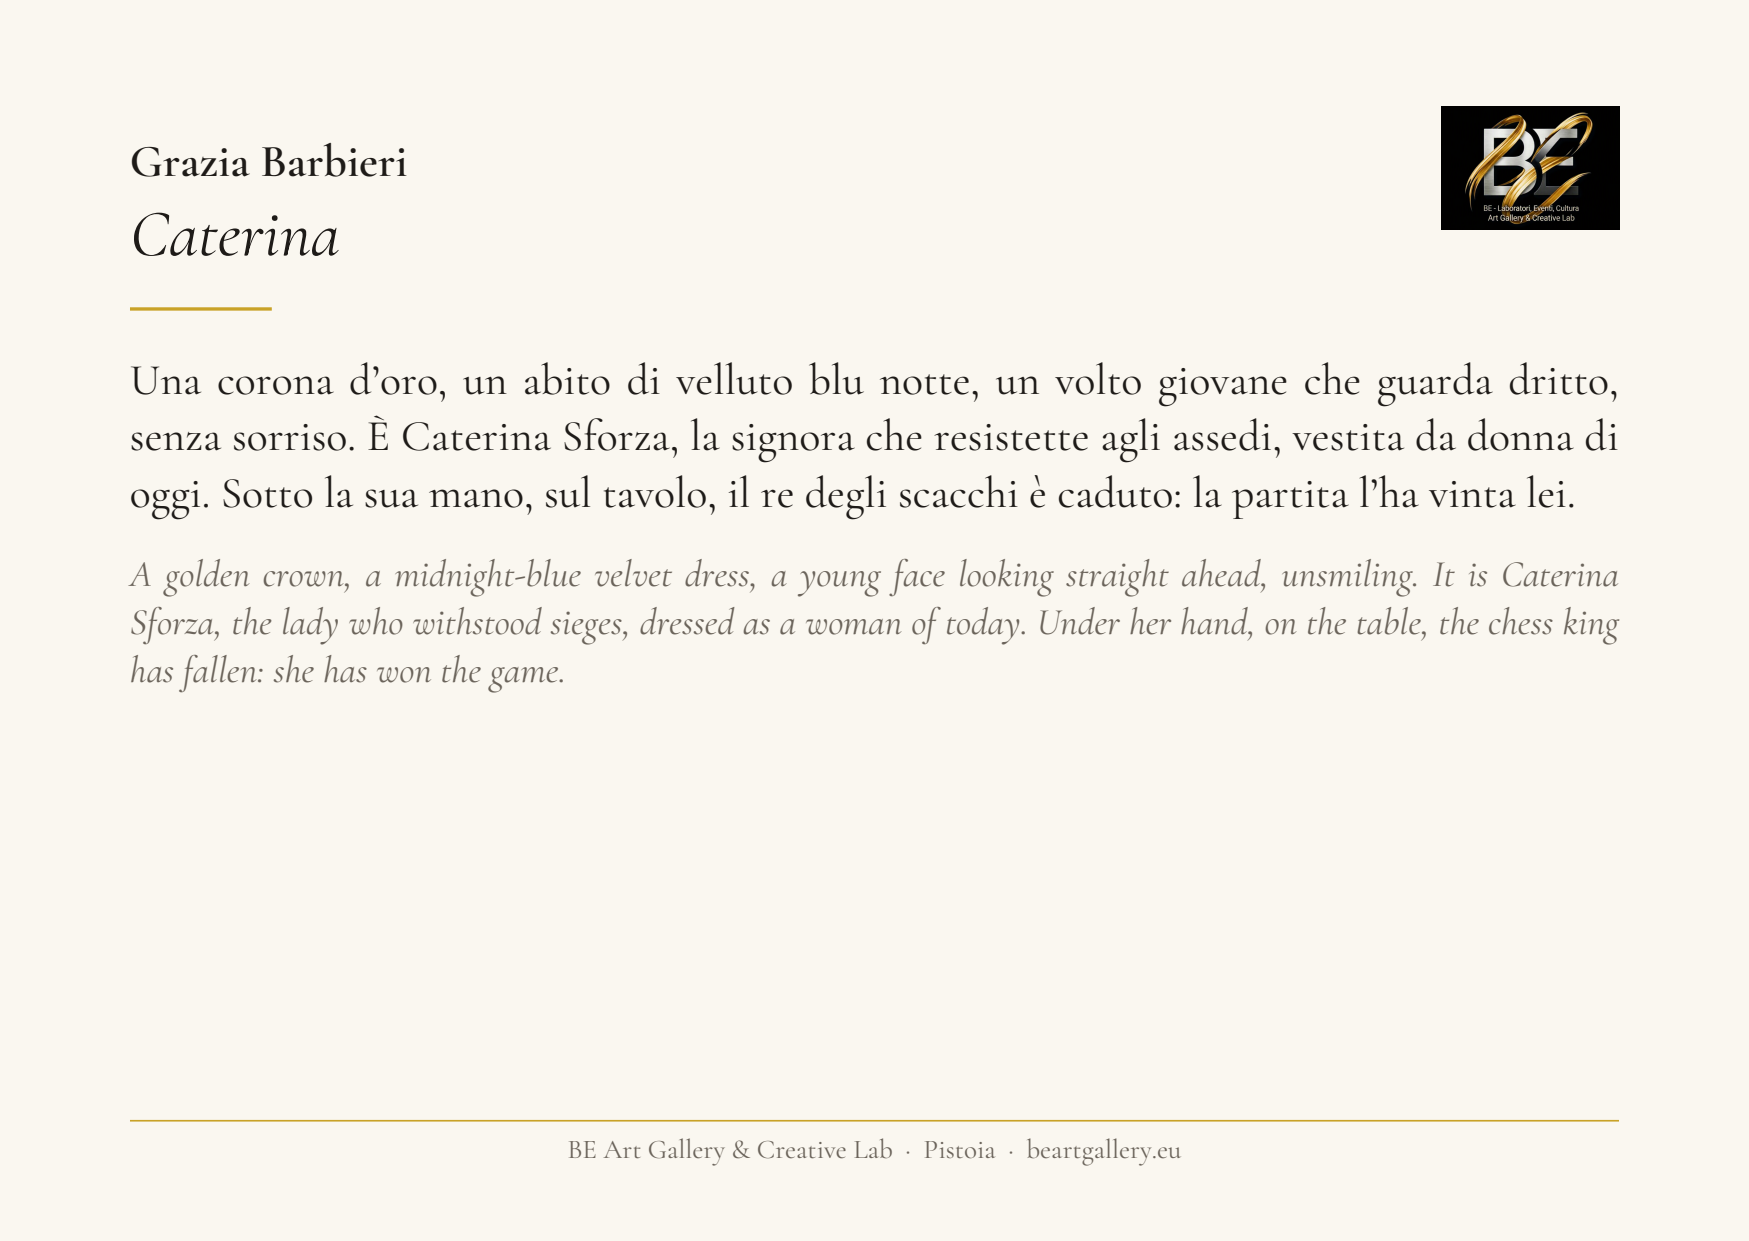
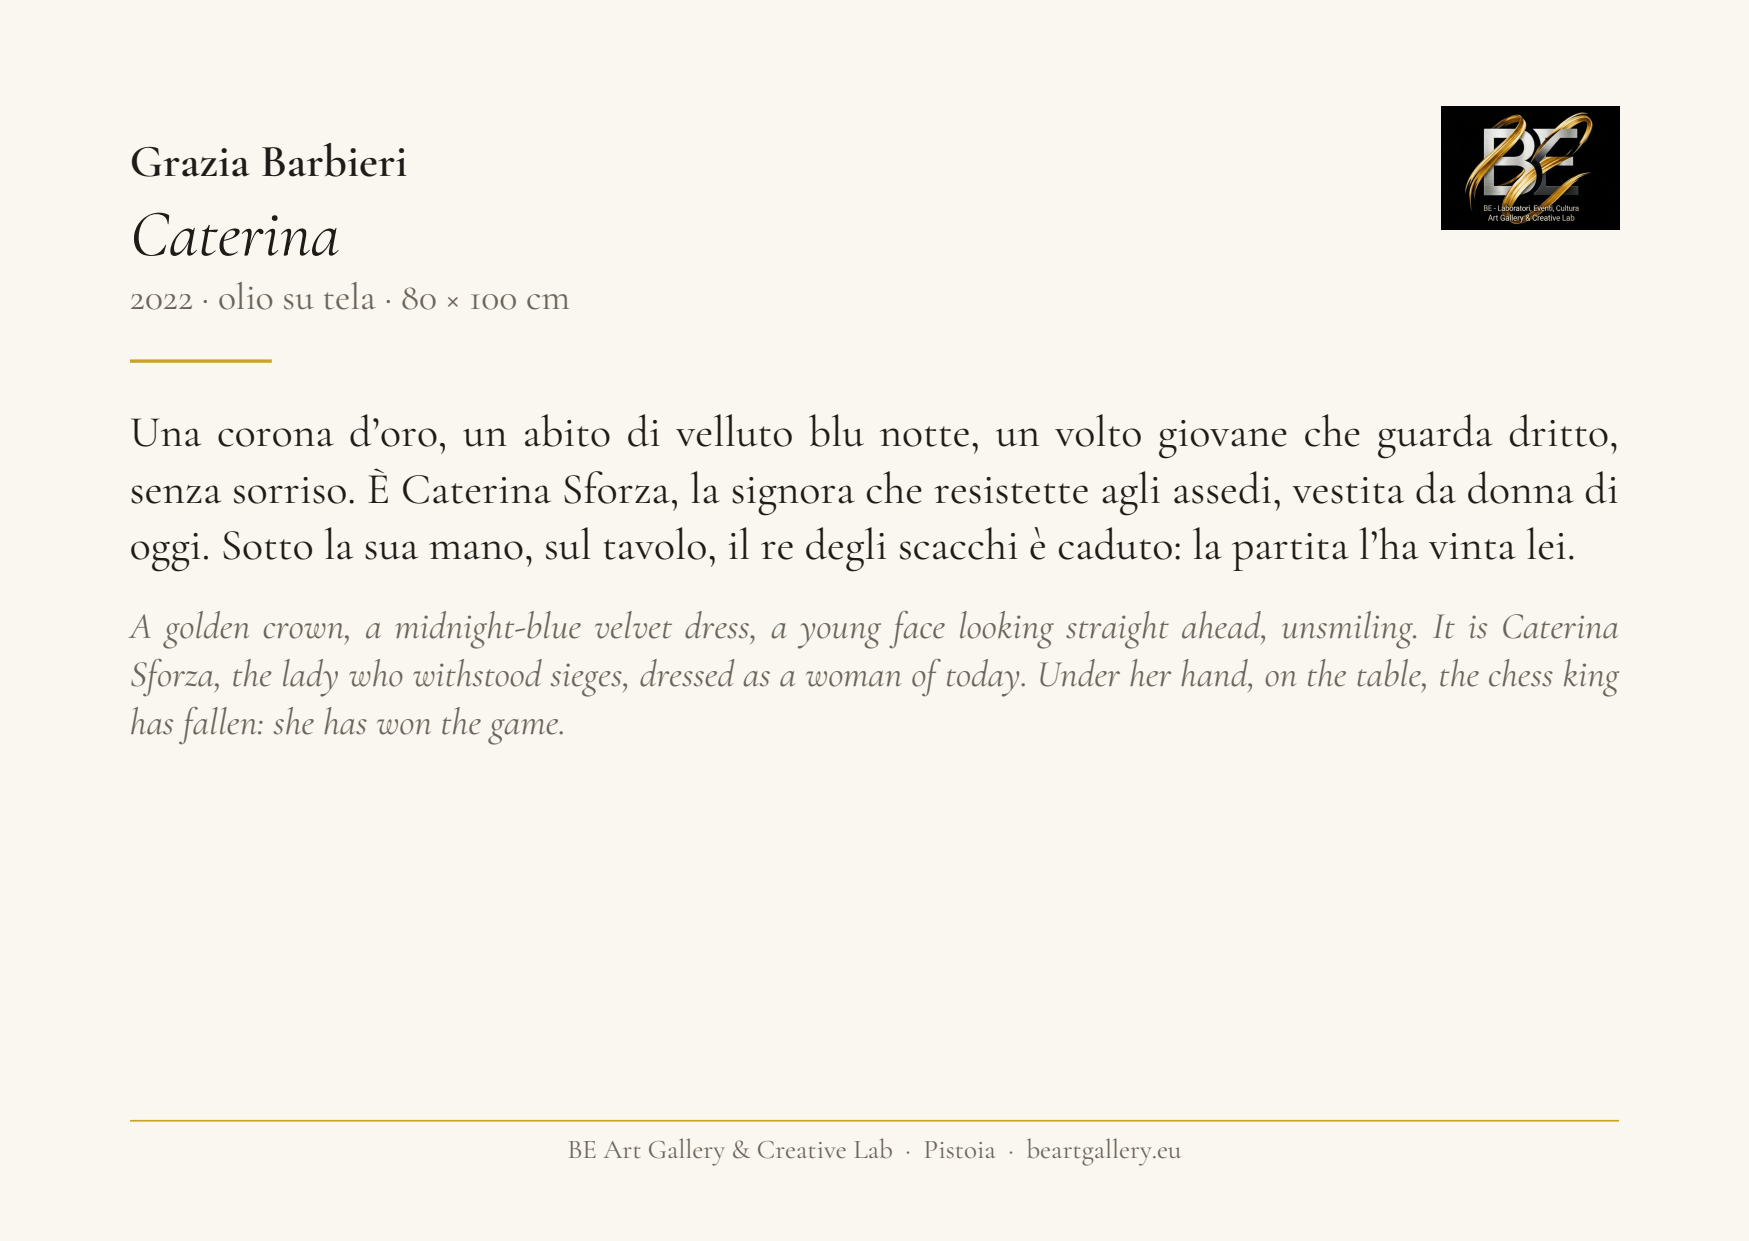
Caterina di Grazia Barbieri: 2022, olio su tela, 80 × 100
Claude-Session: https://claude.ai/code/session_0148bZgqQiCtdshijf84M1Qp

diff --git a/testi-critici/artisti/grazia-barbieri/analisi.md b/testi-critici/artisti/grazia-barbieri/analisi.md
@@ -6,7 +6,7 @@
 
 | | |
 |---|---|
-| **Opere analizzate** | *Caterina* |
+| **Opere analizzate** | *Caterina*, 2022, olio su tela, 80 × 100 cm |
 | **Stesura** | 11 novembre 2026 · v1 |
 | **Fonti** | foto dell'opera dal Drive; sito dell'artista graziabarbieri.it (profilo, elenco dei ritratti, critiche), indicato da Elena |
 
@@ -22,7 +22,7 @@
 
 ## Didascalia
 
-### *Caterina*
+### *Caterina* — 2022, olio su tela, 80 × 100 cm
 
 **Italiano** — _271 caratteri_
 
@@ -48,4 +48,4 @@ Ritratto verticale a mezza figura, impianto da ritratto rinascimentale: fondo br
 - per il tema: la donna che vince la partita — potere e autonomia, senza violenza mostrata
 
 ### Cosa resta aperto
-- tecnica, misure, anno: non indicati né sul sito (probabilmente olio su tela; il premio è del 2019)
+- dati da Elena (11 novembre): olio, 80 × 100 cm, 2022. Il sito lega l'opera al Premio «Caterina Sforza» 2019: anno da tenere d'occhio, vale quello indicato da Elena
